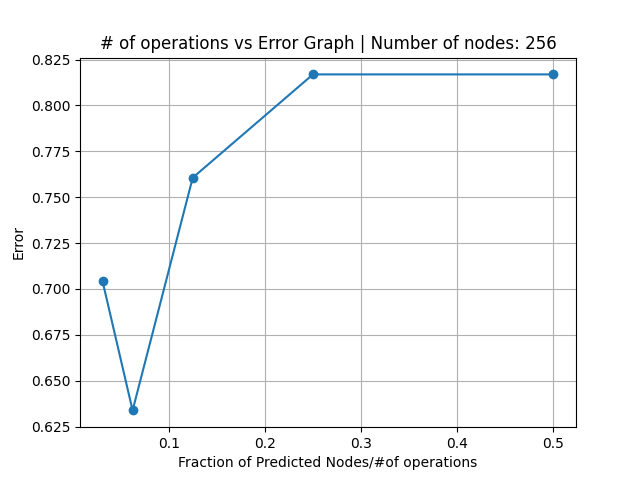
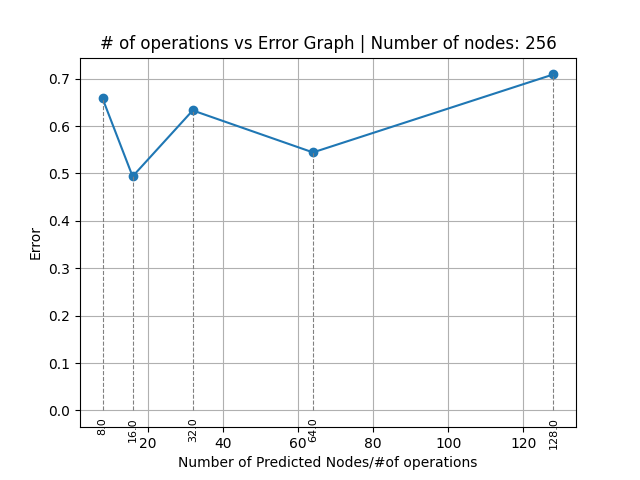
updated the plot to show verical lines

diff --git a/plot_graph.py b/plot_graph.py
@@ -36,12 +36,20 @@ def plot_error_graph(fraction, errors_to_plot, file_name):
     numbers_in_filename = re.findall(r'\d+\.?\d*', file_name)
     total_number_of_nodes_in_graph = str(numbers_in_filename[0])
 
+    x = [element * int(total_number_of_nodes_in_graph) for element in x]
+
     # print(type(x), type(y))
     # exit(0)
 
     plt.figure()
     plt.plot(x, y, marker='o', linestyle='-')
-    plt.xlabel('Fraction of Predicted Nodes/#of operations')
+
+    # Draw vertical lines from each point to the x-axis and add labels
+    for xi, yi in zip(x, y):
+        plt.vlines(x=xi, ymin=0, ymax=yi, color='gray', linestyle='--', linewidth=0.8)
+        plt.text(int(xi), -0.02 * max(y), f'{xi}', ha='center', va='top', fontsize=8, rotation=90)
+
+    plt.xlabel('Number of Predicted Nodes/#of operations')
     plt.ylabel('Error')
     plt.title('# of operations vs Error Graph | Number of nodes: '+ total_number_of_nodes_in_graph)
     plt.grid(True)

diff --git a/run.py b/run.py
@@ -113,7 +113,7 @@ def set_links_for_request(G, T, requesting_node, parent, link_, root):
 def load_graph():
     # graph_name = my_ng.build_graphs()
     # graphml_file = graph_name
-    graphml_file = '.\\graphs\\1024random_diameter24test.edgelist'
+    graphml_file = '.\\graphs\\256random_diameter79test.edgelist'
     G_example = nx.read_graphml(graphml_file)
     G_example = nx.relabel_nodes(G_example, lambda x: int(x))
     return G_example
